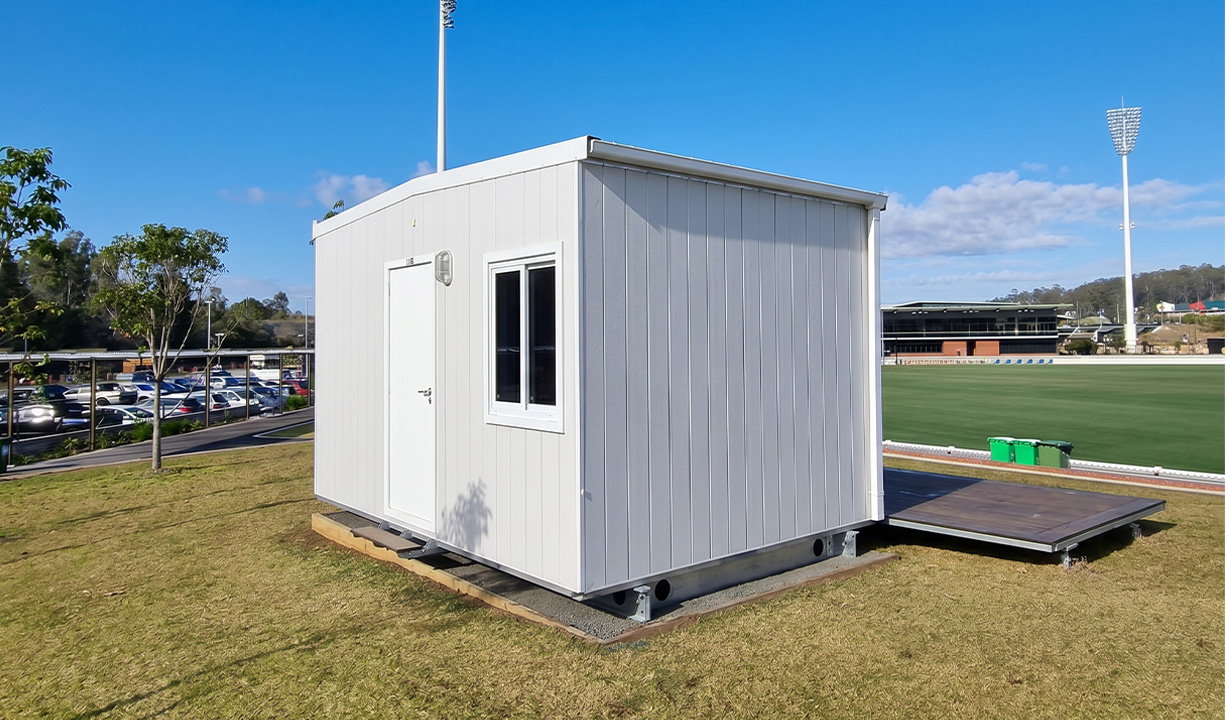
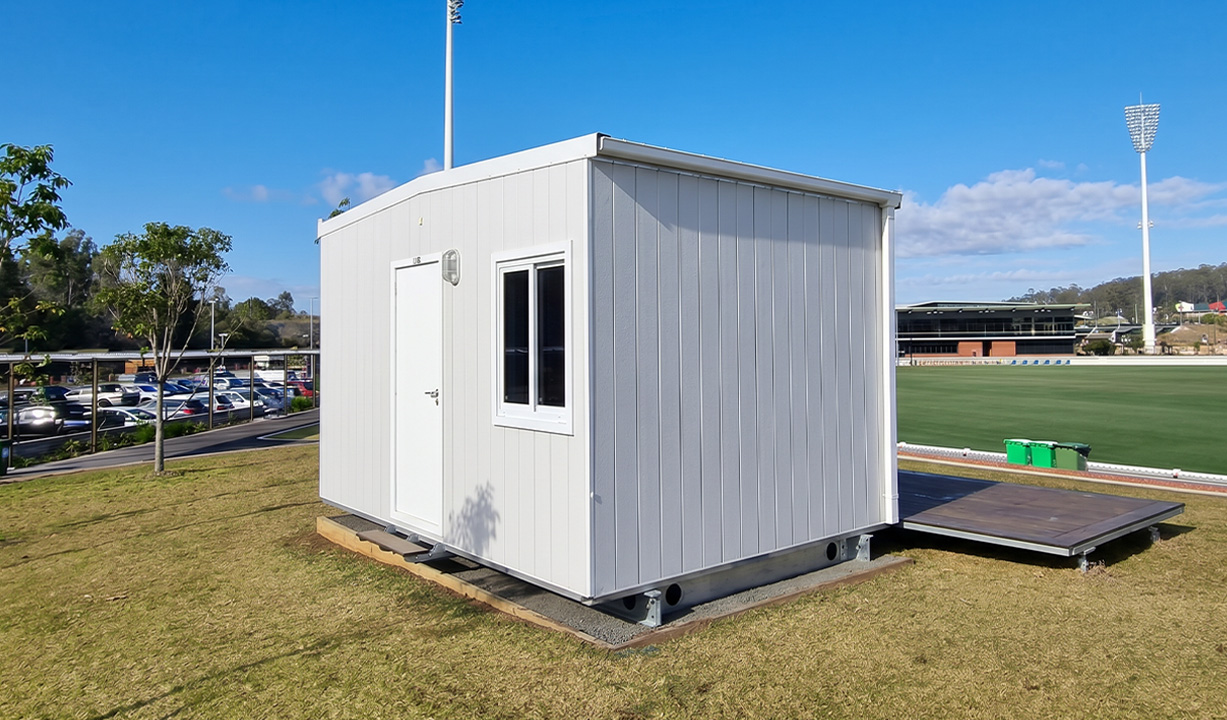
add new modules

Changed region(s): [[0.0, 0.0, 1.0, 1.0], [0.3407, 0.0, 0.4026, 0.2444], [0.4026, 0.2139, 0.4336, 0.2444]]

diff --git a/building-system.php b/building-system.php
@@ -575,6 +575,86 @@ include 'inc/header.php';
                     </div>
                 </div>
             </div>
+
+            <div class="modular-applications-wrapper">
+                <div class="row gx-3 gx-lg-5">
+                    <div class="col-lg-6">
+                        <img src="img/building-system/galaxy_40.jpg" alt="Galaxy 40 modular home exterior" class="img-fluid">
+                    </div>
+                    <div class="col-lg-6 d-flex flex-column justify-content-between">
+                        <div data-aos="fade-up">
+                            <h4>Galaxy 40</h4>
+                            <p>Galaxy 40 is a one-bedroom, one-bathroom modern space. The open-plan kitchen, lounge and dining area capture the beautiful natural lighting, with a convenient deck area.</p>
+                            <p>Size: 40 m² (430.55 ft²)<br>Rooms: 1 bedroom, 1 bathroom</p>
+                        </div>
+                        <button data-aos="fade-up" class="view-gallery-btn" data-gallery="img/building-system/galaxy_40.jpg,img/building-system/galaxy_40_floorplan.jpg">View Images</button>
+                    </div>
+                </div>
+            </div>
+
+            <div class="modular-applications-wrapper">
+                <div class="row gx-3 gx-lg-5">
+                    <div class="col-lg-6">
+                        <img src="img/building-system/jungle_cabin_32.jpg" alt="Jungle Cabin 32 modular cabin exterior" class="img-fluid">
+                    </div>
+                    <div class="col-lg-6 d-flex flex-column justify-content-between">
+                        <div data-aos="fade-up">
+                            <h4>Jungle Cabin 32</h4>
+                            <p>Jungle Cabin 32 is a one-bedroom, one-bathroom modern space. The open-plan kitchen, lounge and dining area capture the beautiful natural lighting.</p>
+                            <p>Size: 32 m² (344.44 ft²)<br>Rooms: 1 bedroom, 1 bathroom</p>
+                        </div>
+                        <button data-aos="fade-up" class="view-gallery-btn" data-gallery="img/building-system/jungle_cabin_32.jpg,img/building-system/jungle_cabin_32_floorplan.jpg">View Images</button>
+                    </div>
+                </div>
+            </div>
+
+            <div class="modular-applications-wrapper">
+                <div class="row gx-3 gx-lg-5">
+                    <div class="col-lg-6">
+                        <img src="img/building-system/mountain_view_40.jpg" alt="Mountain View 40 modular home exterior" class="img-fluid">
+                    </div>
+                    <div class="col-lg-6 d-flex flex-column justify-content-between">
+                        <div data-aos="fade-up">
+                            <h4>Mountain View 40</h4>
+                            <p>Mountain View 40 is a one-bedroom, one-bathroom modern space. The open-plan kitchen, lounge and dining area capture the beautiful natural lighting, with a convenient deck area.</p>
+                            <p>Size: 40 m² (430.55 ft²)<br>Rooms: 1 bedroom, 1 bathroom</p>
+                        </div>
+                        <button data-aos="fade-up" class="view-gallery-btn" data-gallery="img/building-system/mountain_view_40.jpg,img/building-system/mountain_view_40_floorplan.jpg">View Images</button>
+                    </div>
+                </div>
+            </div>
+
+            <div class="modular-applications-wrapper">
+                <div class="row gx-3 gx-lg-5">
+                    <div class="col-lg-6">
+                        <img src="img/building-system/river_view_37.jpg" alt="River View 37 modular home exterior" class="img-fluid">
+                    </div>
+                    <div class="col-lg-6 d-flex flex-column justify-content-between">
+                        <div data-aos="fade-up">
+                            <h4>River View 37</h4>
+                            <p>River View 37 is a one-bedroom, one-bathroom modern space. The open-plan kitchen, lounge and dining area capture the beautiful natural lighting, with a convenient deck area.</p>
+                            <p>Size: 37 m² (398.26 ft²)<br>Rooms: 1 bedroom, 1 bathroom</p>
+                        </div>
+                        <button data-aos="fade-up" class="view-gallery-btn" data-gallery="img/building-system/river_view_37.jpg,img/building-system/river_view_37_floorplan.jpg">View Images</button>
+                    </div>
+                </div>
+            </div>
+
+            <div class="modular-applications-wrapper">
+                <div class="row gx-3 gx-lg-5">
+                    <div class="col-lg-6">
+                        <img src="img/building-system/sea_view_46.jpg" alt="Sea View 46 modular home interior" class="img-fluid">
+                    </div>
+                    <div class="col-lg-6 d-flex flex-column justify-content-between">
+                        <div data-aos="fade-up">
+                            <h4>Sea View 46</h4>
+                            <p>Sea View 46 is a two-bedroom, one-bathroom modern home. The open-plan kitchen, lounge and dining area capture the beautiful natural lighting, with a convenient deck area.</p>
+                            <p>Size: 46 m² (495.14 ft²)<br>Rooms: 2 bedrooms, 1 bathroom</p>
+                        </div>
+                        <button data-aos="fade-up" class="view-gallery-btn" data-gallery="img/building-system/sea_view_46.jpg,img/building-system/sea_view_46_floorplan.jpg">View Images</button>
+                    </div>
+                </div>
+            </div>
         </div>
     </section>
 
